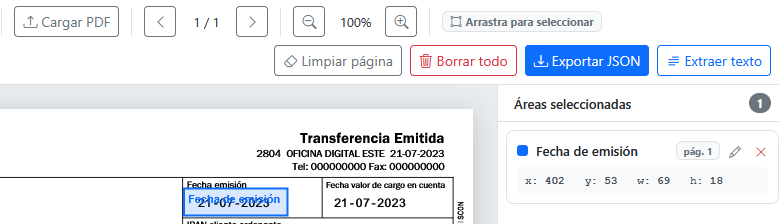
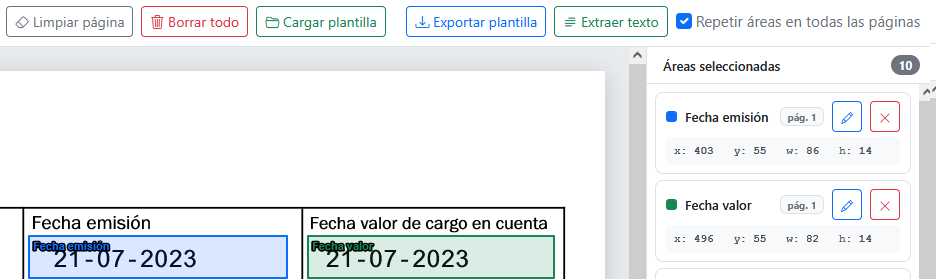
v0.3.1 Readme updated

diff --git a/public/index.html b/public/index.html
@@ -118,14 +118,6 @@
         <div id="areas-list">
           <p id="empty-msg" class="text-center text-muted mt-4" style="font-size:12px;">Sin selección</p>
         </div>
-
-        <div class="border-top px-3 py-2">
-          <p class="mb-0 text-muted" style="font-size:11px; line-height:1.6;">
-            <i class="bi bi-info-circle me-1"></i>
-            Coordenadas en puntos PDF (72 dpi).<br>
-            Compatible con PyMuPDF, pdfplumber, etc.
-          </p>
-        </div>
       </div>
 
     </div>

diff --git a/readme.md b/readme.md
@@ -2,36 +2,47 @@
 App web que permite convierte tablas complejas de un pdf a CSV mediante el navegador.
 
 # Uso
-1- Abrir index.html en el navegador
-
-2- Cargar PDF mediante botón
+- Abrir index.html en el navegador
 
 ![alt text](images/main.png)
 
+- Cargar PDF mediante botón
+
+![alt text](images/pdf_sin_areas.png)
+
+- Aparecerán indicaciones para crear áreas. Además de los botones de:
+
+-> Limpiar áreas de la página actual
+
+-> Borrar todas las áreas marcadas en el pdf
+
+-> importar una plantilla de áreas existente
+
+
 ## Creación de áreas
--->Los siguientes pasos pueden omiterse si ya se han realizado con anterioridad y se tiene un json con las áreas<--
+- Con el PDF visible, click con el ratón y arrastrar para marcar los datos a extraer.
+- Dejar de pulsar el ratón para crear el área y darle un nombre.
+- Una vez creada al menos 1 área (o importada una plantilla) aparecerán más opciones.
+- Se visualizarán las áreas y sus coordenadas. Se puede modificar o eliminar cada área.
 
-3- Con el PDF visible, click izquierdo con el ratón y arrastrar para marcar los datos a extraer.
-
-4- Dejar de pulsar el ratón para guardar el área y darle un nombre.
-
-5- Repetir en el resto de áreas los puntos 3 al 5
-
-6- Exportar áreas como json
 
 ![alt text](images/areas.png)
 
+
 ## Extracción de datos
-7- Pulsar el botón de "Extraer texto". Se solicitará un JSON del usuario para extraer el contenido.
 
-8- Si el JSON es correcto, se mostrará una ventana con una tabla conteniendo los datos a exportar.
+NOTA: Marque la casilla "Repetir áreas en todas las páginas" si todas las páginas tienen el mismo formato. Actualmente solo funciona esta opción para las páginas distintas a la 1ª.
 
-9- Pulsar el botón de "Exportar CSV" para obtener el archivo csv.
+- Pulsar el botón de "Extraer texto". SOLO VISIBLE SI EXISTEN ÁREAS CREADAS.
+- Si no hay errores, se mostrará una ventana con una tabla conteniendo los datos a exportar.
+- Pulsar el botón de "Exportar CSV" para obtener el archivo csv.
 
 NOTA: Para facilitar el manejo de los datos, la tabla se exporta en formato horizontal.
 
 ![alt text](images/extraido.png)
 
 # Pendiente
+- Corregir error al seleccionar áreas de páginas distintas a la 1ra
 - Evitar título "null" al cancelar creación de un área -> Debe cancelar la creación del área si no tiene título
-- Permitir establecer nombre a las plantillas
+- Permitir dar nombre a las plantillas
+- Permitir dar nombre al csv extraído
